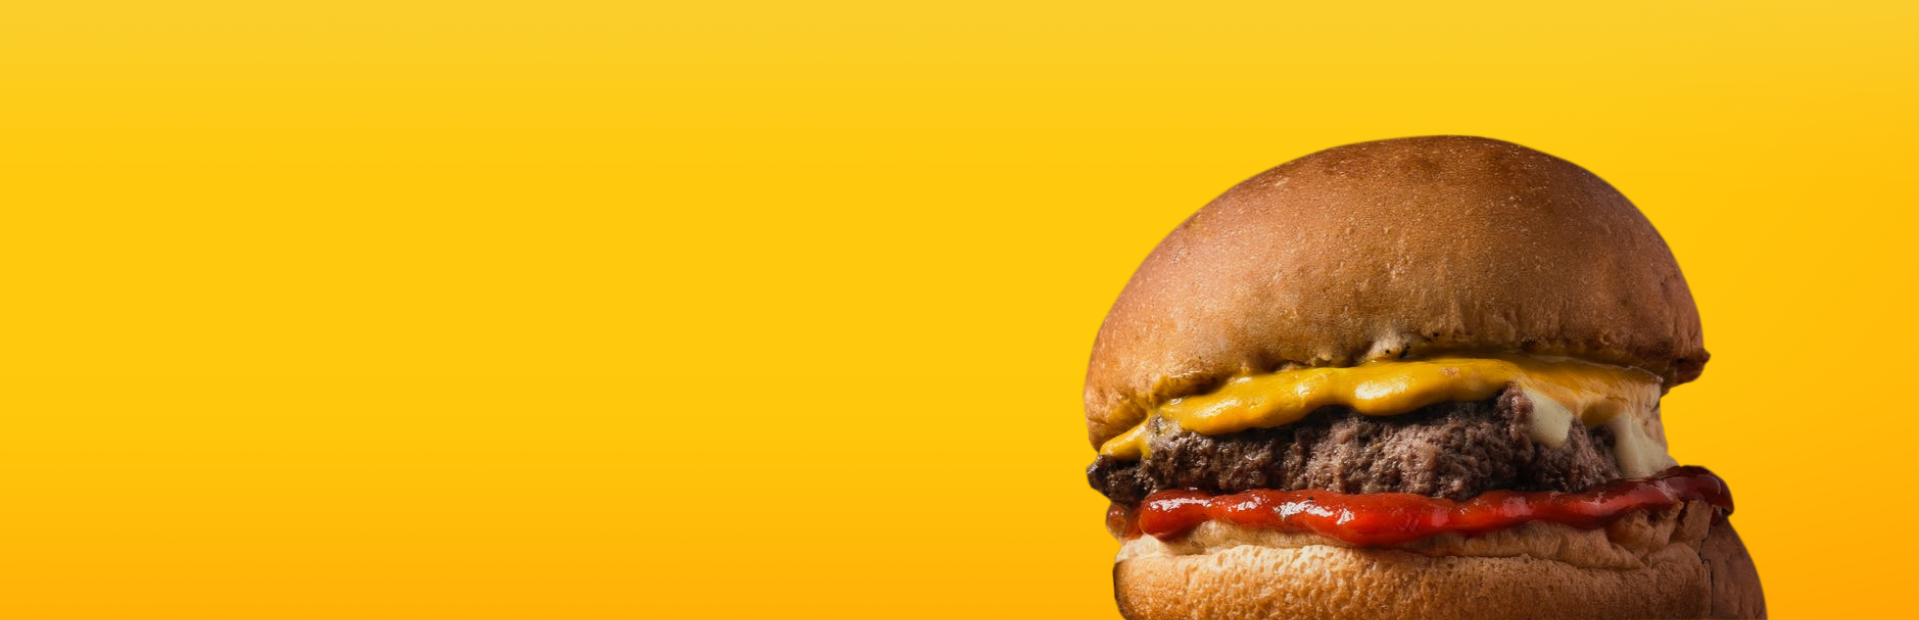
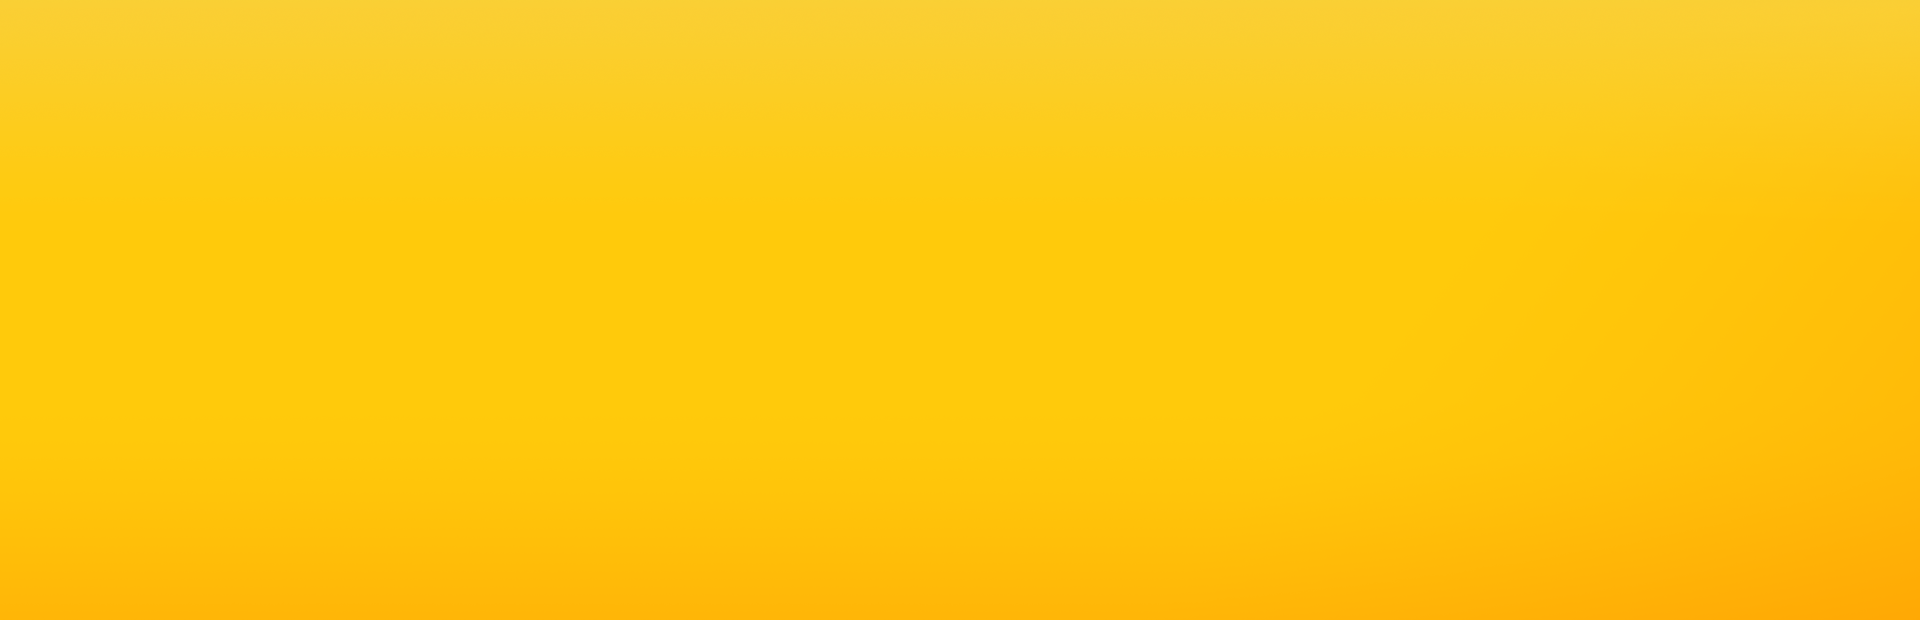
home

Changed region(s): [[0.5534, 0.2145, 0.9224, 1.0]]

diff --git a/src/pages/Home.jsx b/src/pages/Home.jsx
@@ -1,28 +1,65 @@
-import React from 'react'
+import React from "react";
 import { BiSolidShoppingBag } from "react-icons/bi";
 import { GrBike } from "react-icons/gr";
-
+import { AiOutlineSearch } from "react-icons/ai";
+import { FaLocationDot } from "react-icons/fa6";
+import ImageHome from "../components/Assets/images/ImageHome.png";
 
 function Home() {
   return (
-    <div className='home p-5 h-screen'>
-        <h1 className='text-white font-extrabold text-3xl'>Are you starving?</h1>
-        <p>Within a few clicks, find meals that are accessible near you</p>
+    <div className="home p-5">
+      <h1 className="text-white font-extrabold text-3xl phone:pt-10 pb-5 ml-20 pl-9 ">Are you starving?</h1>
+      <p className="text-xs py-2 phone:ml-20 pl-9">
+        Within a few clicks, find meals that are accessible near you
+      </p>
 
-        <div>
-          <div className='flex justify-between items-center'>
-            <div className='flex justify-around items-center'>
-              <BiSolidShoppingBag />
-            <button>Deliver</button>
+      <div className="flex flex-col-reverse  phone:flex-row justify-around items-center">
+        <div className="bg-white rounded-lg">
+          <div className="flex justify-start items-center p-2 m-2">
+            <div className="flex justify-around items-center py-1 px-3 text-sm font-bold bg-[#f6ddcf] text-orangeColor rounded">
+              <GrBike className="mx-1 text-orangeColor" />
+              <button>Delivery</button>
             </div>
-            <div className='flex justify-around items-center'>
-              <GrBike />
-            <button>Pickup</button>
+            <div className="flex justify-between items-center py-1 px-3 text-sm font-bold text-gray-500 rounded">
+              <BiSolidShoppingBag />
+              <button>Pickup</button>
             </div>
           </div>
+
+          <hr />
+
+          <div className="m-2 py-1 px-2">
+            <form className="flex justify-between items-center py-3">
+              <div className="relative mr-2">
+                <input
+                  placeholder="Enter your Email"
+                  type="text"
+                  id="address"
+                  name="address"
+                  className="pl-10 py-2 px-4 rounded-lg bg-greyColor"
+                />
+                <div className="absolute inset-y-0 left-0 pl-3 flex items-center text-orangeColor pointer-events-none">
+                  <FaLocationDot />
+                </div>
+              </div>
+              <div className="relative">
+                <button className="bg-orangeColor rounded pl-10 px-2 py-2 text-white font-bold">
+                  <div className="absolute inset-y-0 left-0 pl-3 flex items-center">
+                  <AiOutlineSearch />
+                  </div>              
+                  Find Food
+                </button>
+              </div>
+            </form>
+          </div>
         </div>
+
+        <div className="my-2 py-2">
+          <img src={ImageHome} height='350px' width='350px' alt="food" />
+        </div>
+      </div>
     </div>
-  )
+  );
 }
 
-export default Home
+export default Home;

diff --git a/src/components/header/Header.jsx b/src/components/header/Header.jsx
@@ -28,12 +28,14 @@ function Header() {
           </div>
           <p className='text-bold'>Search Food</p>
         </div>
+
         <div className='flex justify-between items-center'>
         <button className='flex items-center justify-between shadow-lg shadow-red-500 rounded-md px-3 py-1 text-orangeColor'>
         <BiSolidUser className='text-yellowColor' />
           Login
         </button>
-        </div>  
+        </div> 
+         
       </div>
     </div>
     

diff --git a/src/App.css b/src/App.css
@@ -13,5 +13,7 @@
 .home {
   background: url(./components/Assets/images/home-bg.png);
   background-repeat: no-repeat;
-  object-fit: fill;
+  object-fit: cover;
+  width: screen;
+  height: auto;
 }
